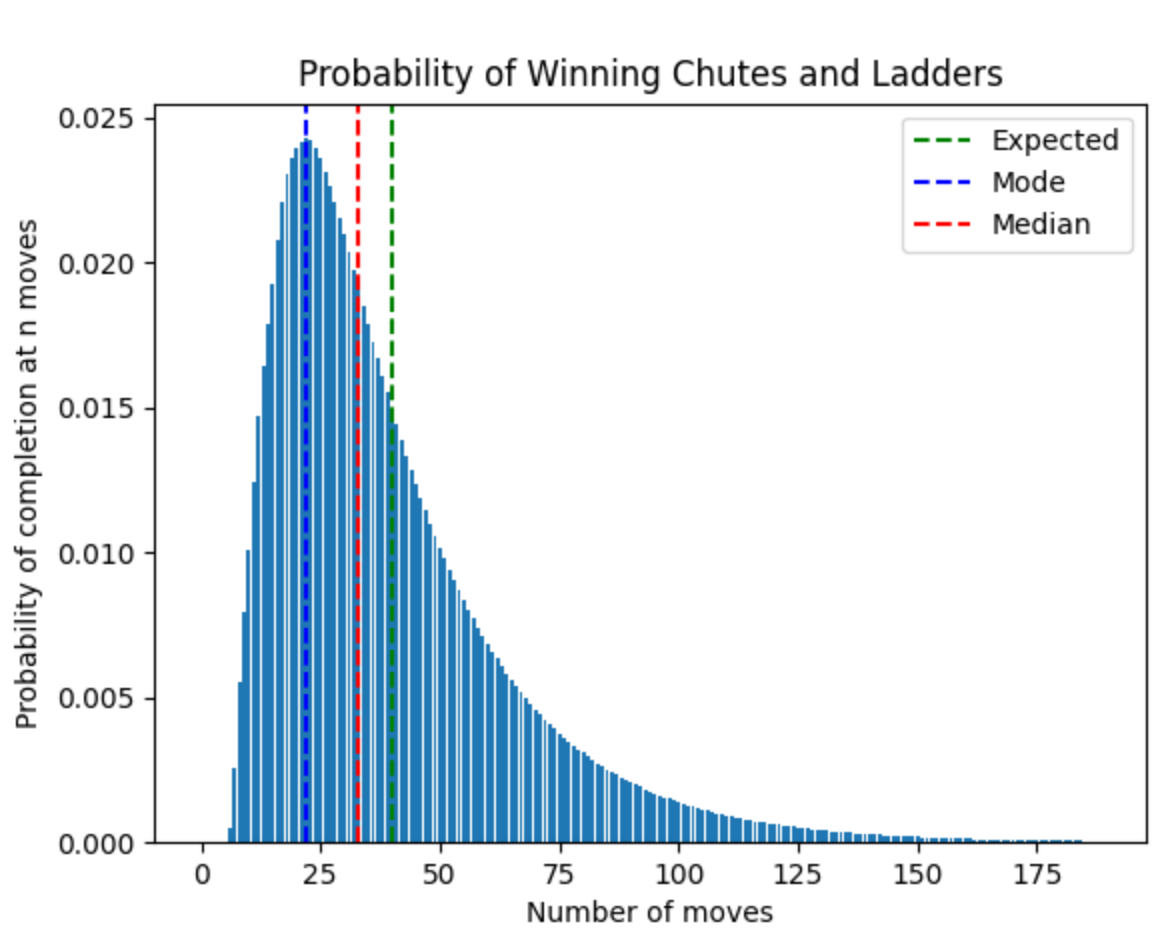
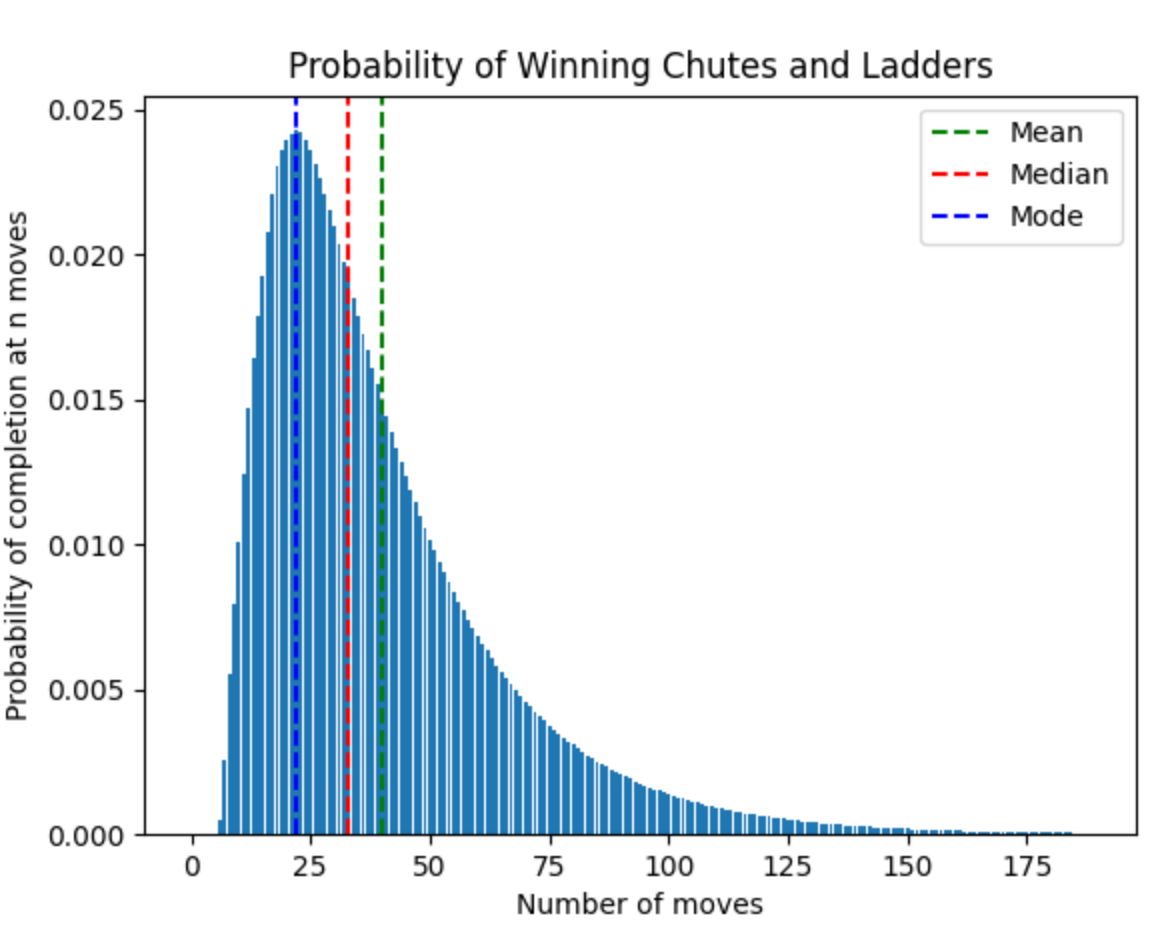
Use 'mean' instead of 'expected' (which should really be expected value) for the mean number of moves

Changed region(s): [[0.0, 0.0605, 0.9897, 0.9978]]

diff --git a/markov.py b/markov.py
@@ -77,12 +77,12 @@ class Game:
         # plot bar graph
         plt.bar(range(self.upper_bound), prob)
         median = self.median_moves()
-        expected = self.expected_moves()[0]
+        mean = self.expected_moves()[0]
         mode = self.mode_moves()
-        plt.axvline(x=expected, color='g', linestyle='--', label='Expected')
+        plt.axvline(x=mean, color='g', linestyle='--', label='Mean')
+        plt.axvline(x=median, color='r', linestyle='--', label='Median')
         for m in mode:
             plt.axvline(x=m, color='b', linestyle='--', label='Mode')
-        plt.axvline(x=median, color='r', linestyle='--', label='Median')
         plt.xlabel('Number of moves')
         plt.ylabel('Probability of completion at n moves')
         plt.title("Probability of Winning " + self.name)

diff --git a/main.py b/main.py
@@ -11,9 +11,9 @@ if __name__ == '__main__':
     games = [Chutes_And_Ladders, Curious_George]
     for game in games:
         print(game.name)
-        print("Expected value:", game.expected_moves()[0])
-        print("Mode:", game.mode_moves())
+        print("Mean:", game.expected_moves()[0])
         print("Median:", game.median_moves())
+        print("Mode:", game.mode_moves())
         print("Minimum:", game.min_moves())
         print("Standard deviation:", game.std_dev()[0])
         game.plot_expected_moves()

diff --git a/README.md b/README.md
@@ -11,15 +11,15 @@ The game begins on square 0, representing the off-board state.
 The final square is an absorbing state; once a player reaches it, they cannot leave.
 
 This repository uses the properties of Markov chains to calculate various statistics of a single-player game.
-* Expected value of number of moves to win game: 39.8592604644135
-* Mode (most common number of moves that wins a game): 22
+* Mean number of moves to win game: 39.8592604644135
 * Median (50% of games finish by this number of moves): 33
+* Mode (most common number of moves that wins a game): 22
 * Minimum (the smallest number of moves that can win): 6
 * Standard deviation: 25.96486891240239
 
 ## Graphs
 ### Expected Number of Moves Per Starting Square
-This graph shows the expected number of moves to finish the game when starting on each square. 
+This graph shows the expected value of the number of moves to finish the game when starting on each square. 
 If the starting square is at the bottom of a ladder or the top of a chute, the only possible next move is to take the ladder or chute.
 For example, the 80 square is at the bottom of a ladder to square 100, so its expected number of moves to finish the game is 1.
 ![chutes_and_ladders_expected_moves.png](img/chutes_and_ladders_expected_moves.png)
